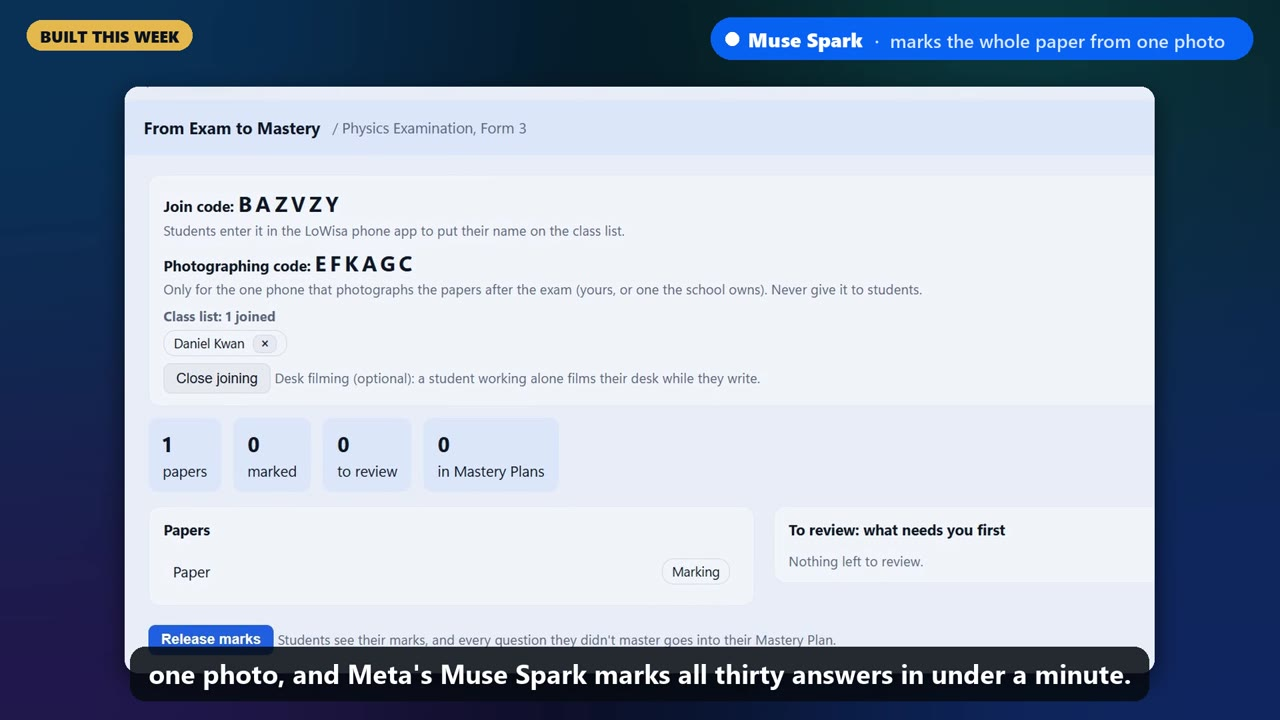
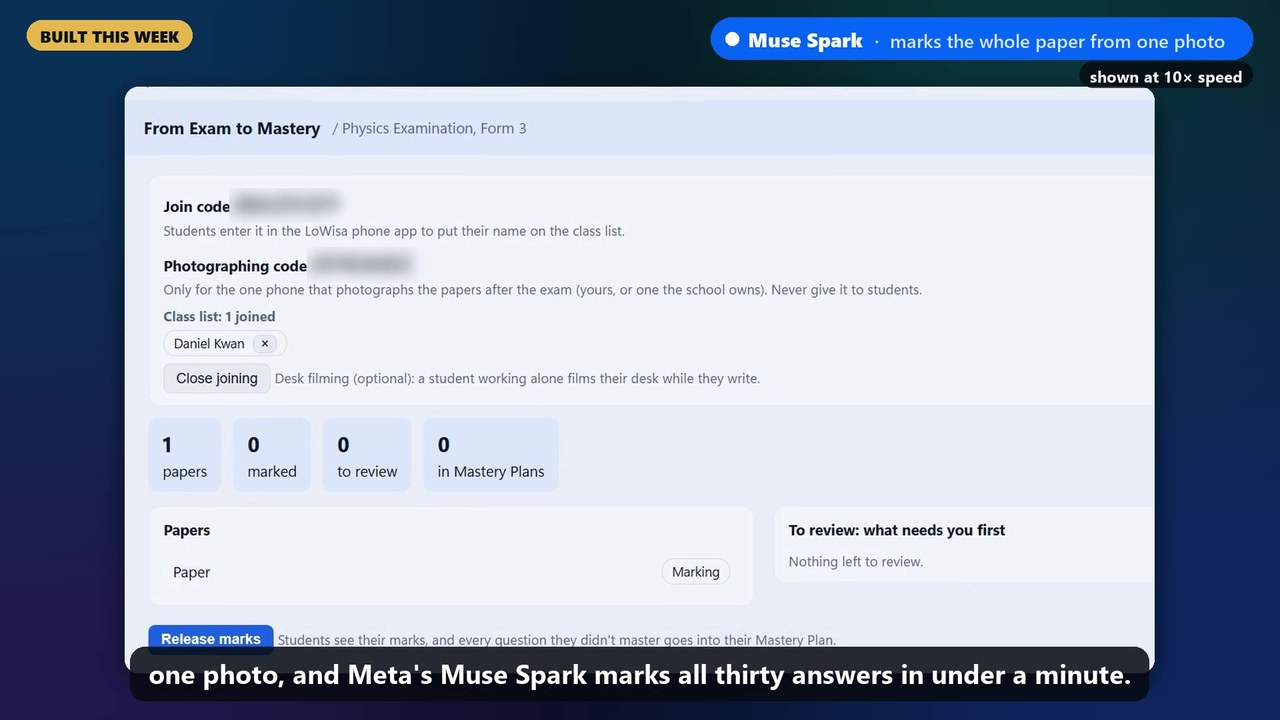
The film, cut 10, in the repository: the problem first (cognitive ability), a real student's result, every shot labelled, the exam codes blurred
Opening shortened with the same message (o2 now carries o3's point; a1 cut); 'built this week'
spoken in the introduction; the intro and closing cards labelled; speed shown on the 10x and 2.6x
shots; flashcards left out. 2:57. Frames 02 and 10 taken from it; section 2's ledger matches it.

Changed region(s): [[0.8438, 0.0611, 1.0, 0.1222], [0.2188, 0.3361, 0.3438, 0.3972], [0.1562, 0.2444, 0.2812, 0.3056]]

diff --git a/README.md b/README.md
@@ -3,7 +3,7 @@
 **AI that finds where a learner's thinking broke down, then makes them think again until they can explain it and use
 it in the real world. It never thinks for them.**
 
-**The 3-minute film:** [`evidence/film/exam-to-mastery.mp4`](evidence/film/exam-to-mastery.mp4) (2:59). Section 2 walks
+**The 3-minute film:** [`evidence/film/exam-to-mastery.mp4`](evidence/film/exam-to-mastery.mp4) (2:57). Section 2 walks
 through it frame by frame.
 
 - **The problem is cognitive ability.** AI that does students' thinking for them weakens it (section 1). And a red mark
@@ -596,7 +596,7 @@ Look at it without an account: `node demo/desk-server.js --replay`. It is this e
 | **Impact** | Strengthens thinking instead of replacing it: a failed question becomes a level built on the student's own mistake that ends in a real task, and a teacher of forty gets their evenings back. Not yet proven with real students | sections 1, 2, 5; limits in 16 |
 | **Use of Meta's models** | Muse Spark reads the *reasoning* in handwriting and code checks its diagnosis against the lines it read; Muse Wonder plays every level as the student first; five models measured, in a gated pipeline of agents with code-checked hand-offs | sections 3, 4; `harness/FINDINGS.md` |
 | **Technical depth** | The evidence rule in code, measured blind and on the shipped code; handwriting placed on the page by dynamic programming (64 of 64 lines, against SAM 3.1's 52); Erlang/OTP with conditional writes, per-route daily ceilings, roles; 147 library tests; sixteen problems found by testing and how each was solved, from sideways pages to a safety check that failed open | sections 6, 7, 10, 11, 15 |
-| **Demo** | One real failed question from photo to mastery, recorded on the production edge; Muse Wonder's check and "Lo asks first" on screen; every shot labelled new or existing; judges can try it live | sections 2, 12 |
+| **Demo** | One real failed question from photo to mastery, recorded on the production edge; Muse Wonder's check, "Lo asks first" and a real Grade 5 student's result on screen; every shot labelled, with a timecoded ledger; judges can try it live | sections 2, 12 |
 
 ## 10. Architecture
 
